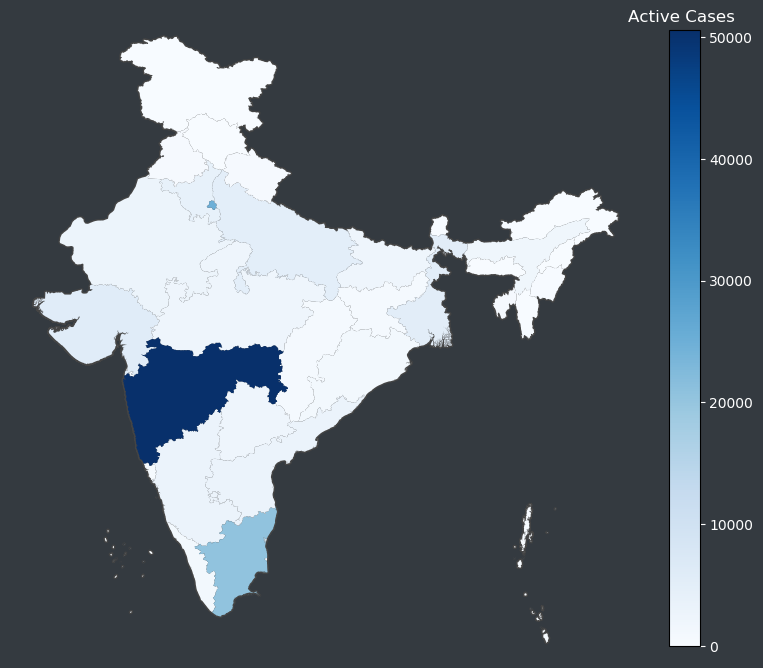
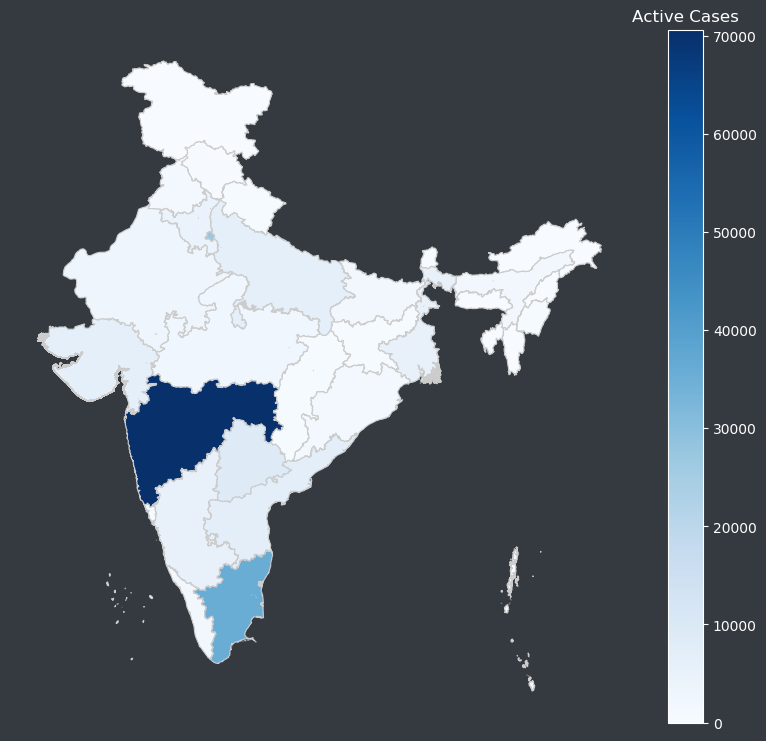
Finally

diff --git a/static/style.css b/static/style.css
@@ -64,7 +64,7 @@ background-color: #343a40;
 
 }
 table{
-  background-color: #343a40;
+  /* background-color: #343a40; */
   color: #c3c3c3;
 }
 tr{

diff --git a/app.py b/app.py
@@ -1,17 +1,11 @@
-
+import geopandas as gpd
 from flask import Flask, render_template
 import bs4 as bs
 import urllib.request
-from mpl_toolkits.basemap import Basemap
 import matplotlib.pyplot as plt
 import numpy as np
-from matplotlib.patches import Polygon
-from matplotlib.collections import PatchCollection
 from matplotlib.colors import Normalize
 import matplotlib.cm
-import pandas as pd
-import bs4 as bs
-import urllib.request
 import pandas as pd
 def scrape(url):
     list=[[],[],[],[],[]]
@@ -36,8 +30,6 @@ def scrape(url):
                 list[p].append(l[p])
     return list
 
-a=scrape('https://www.mohfw.gov.in/')
-
 def convert(x):
     if(x[-1]=='#'):
         return int(x[:-1])
@@ -47,152 +39,93 @@ def convert1(x):
         return x[:-1]
     return x
 
-data=map(convert1,a[1])
-a[1]=list(data)
-data1=map(convert,a[2])
+a=[]
+def run():
+    global a
+    a=scrape('https://www.mohfw.gov.in/')
 
-a[2]=list(data1)
-data=map(convert,a[3])
-a[3]=list(data)
-data=map(convert,a[4])
-a[4]=list(data)
-data=pd.DataFrame({'area':a[1],'count':a[2],'cured':a[3],'deaths':a[4]})
-data.loc[0,'area']='Andaman & Nicobar Island'
-data.loc[8,'area']='NCT of Delhi'
+    data=map(convert1,a[1])
+    a[1]=list(data)
+    data1=map(convert,a[2])
 
+    a[2]=list(data1)
+    data=map(convert,a[3])
+    a[3]=list(data)
+    data=map(convert,a[4])
+    a[4]=list(data)
+    data=pd.DataFrame({'area':a[1],'count':a[2],'cured':a[3],'deaths':a[4]})
+    data.loc[0,'area']='Andaman & Nicobar Island'
+    data.loc[8,'area']='NCT of Delhi'
 
+    fp = "Igismap\\Indian_States.shp"
+    map_df = gpd.read_file(fp)
+    merged = map_df.set_index('st_nm').join(data.set_index('area'))
+    merged.head()
+    merged.fillna(0,inplace=True)
 
+    fig, ax = plt.subplots(figsize=(10,9))
+    plt.style.use("dark_background")
 
-fig, ax = plt.subplots(figsize=(10,20))
-map=Basemap(
-    llcrnrlon=67,
-    llcrnrlat=6,
-    urcrnrlon=98,
-    urcrnrlat=38,
-    lat_0=27,
-    lon_0=76)
-i=map.readshapefile("Igismap\\Indian_States","states",color='#444444',linewidth=2)
+    ax.axis('off')
 
-df_poly = pd.DataFrame({
-        'shapes': [Polygon(np.array(shape), True) for shape in map.states],
-        'area': [area['st_nm'] for area in map.states_info]
-    })
-df_poly = df_poly.merge(data, on='area', how='left')
-cmap = plt.get_cmap('Greens')
-pc = PatchCollection(df_poly.shapes, zorder=2)
-norm = Normalize()
+    merged.plot(column='cured', cmap='Greens', linewidth=0.8, ax=ax, edgecolor='0.8')
+    mapper = matplotlib.cm.ScalarMappable(norm=plt.Normalize(vmin=0, vmax=data['cured'].max()), cmap='Greens')
 
-pc.set_facecolor(cmap(norm(df_poly['cured'].fillna(0).values)))
-ax.add_collection(pc)
-
-mapper = matplotlib.cm.ScalarMappable(norm=norm, cmap=cmap)
-
-mapper.set_array(df_poly['cured'])
-cbar=plt.colorbar(mapper, shrink=0.4)
-cbar.ax.set_title('Cured/Discharged/Migrated',color='white')
-# plt.legend('')
-# ax.set_xlabel('Country Population', size = 8)
-ax.axis('off')
-plt.rcParams['savefig.facecolor']='#343a40'
-plt.rcParams["ytick.color"] = 'white'
-plt.rcParams["xtick.color"] = 'white'
-plt.savefig('static\\map1.png',bbox_inches='tight')
+    mapper.set_array(data['cured'])
+    cbar=plt.colorbar(mapper)
+    cbar.ax.set_title('Cured/Discharged/Migrated',color='white')
+    plt.rcParams['savefig.facecolor']='#343a40'
+    plt.savefig('static\\map1.png',bbox_inches='tight')
 
 
 
 
-fig, ax = plt.subplots(figsize=(10,20))
-map=Basemap(
-    llcrnrlon=67,
-    llcrnrlat=6,
-    urcrnrlon=98,
-    urcrnrlat=38,
-    lat_0=27,
-    lon_0=76)
-i=map.readshapefile("Igismap\\Indian_States","states",color='#444444',linewidth=2)
+    fig, ax = plt.subplots(figsize=(10,9))
+    plt.style.use("dark_background")
 
-df_poly = pd.DataFrame({
-        'shapes': [Polygon(np.array(shape), True) for shape in map.states],
-        'area': [area['st_nm'] for area in map.states_info]
-    })
-df_poly = df_poly.merge(data, on='area', how='left')
-cmap = plt.get_cmap('YlOrRd')
-pc = PatchCollection(df_poly.shapes, zorder=2)
-norm = Normalize()
+    ax.axis('off')
 
-pc.set_facecolor(cmap(norm(df_poly['deaths'].fillna(0).values)))
-ax.add_collection(pc)
+    merged.plot(column='deaths', cmap='YlOrRd', linewidth=0.8, ax=ax, edgecolor='0.8')
+    mapper = matplotlib.cm.ScalarMappable(norm=plt.Normalize(vmin=0, vmax=data['deaths'].max()), cmap='YlOrRd')
 
-mapper = matplotlib.cm.ScalarMappable(norm=norm, cmap=cmap)
-
-mapper.set_array(df_poly['deaths'])
-cbar=plt.colorbar(mapper, shrink=0.4)
-plt.rcParams["ytick.color"] = 'white'
-plt.rcParams["xtick.color"] = 'white'
-cbar.ax.set_title('Deaths',color='white')
-# plt.legend('')
-# ax.set_xlabel('Country Population', size = 8)
-ax.axis('off')
-plt.rcParams['savefig.facecolor']='#343a40'
-plt.rcParams["ytick.color"] = 'white'
-plt.rcParams["xtick.color"] = 'white'
-plt.savefig('static\\map2.png',bbox_inches='tight')
-
-
-
-fig, ax = plt.subplots(figsize=(10,20))
-map=Basemap(
-    llcrnrlon=67,
-    llcrnrlat=6,
-    urcrnrlon=98,
-    urcrnrlat=38,
-    lat_0=27,
-    lon_0=76)
-i=map.readshapefile("Igismap\\Indian_States","states",color='#444444',linewidth=2)
-
-df_poly = pd.DataFrame({
-        'shapes': [Polygon(np.array(shape), True) for shape in map.states],
-        'area': [area['st_nm'] for area in map.states_info]
-    })
-df_poly = df_poly.merge(data, on='area', how='left')
-cmap = plt.get_cmap('Blues')
-pc = PatchCollection(df_poly.shapes, zorder=2)
-norm = Normalize()
-
-pc.set_facecolor(cmap(norm(df_poly['count'].fillna(0).values)))
-ax.add_collection(pc)
-
-mapper = matplotlib.cm.ScalarMappable(norm=norm, cmap=cmap)
-
-mapper.set_array(df_poly['count'])
-cbar=plt.colorbar(mapper, shrink=0.4)
-plt.rcParams["ytick.color"] = 'white'
-plt.rcParams["xtick.color"] = 'white'
-cbar.ax.set_title('Active Cases ',color='white')
-# plt.legend('')
-# ax.set_xlabel('Country Population', size = 8)
-ax.axis('off')
-plt.rcParams['savefig.facecolor']='#343a40'
-
-plt.savefig('static\\map.png',bbox_inches='tight')
+    mapper.set_array(data['deaths'])
+    cbar=plt.colorbar(mapper)
+    cbar.ax.set_title('Deaths',color='white')
+    plt.rcParams['savefig.facecolor']='#343a40'
+    plt.savefig('static\\map2.png',bbox_inches='tight')
 
 
 
 
+    fig, ax = plt.subplots(figsize=(10, 9))
+    plt.style.use("dark_background")
 
-active=sum(a[2])
-cured=sum(a[3])
-dead=sum(a[4])
+    ax.axis('off')
 
-a.append(active)
-a.append(cured)
-a.append(dead)
+    merged.plot(column='count', cmap='Blues', linewidth=0.8, ax=ax, edgecolor='0.8')
+    mapper = matplotlib.cm.ScalarMappable(norm=plt.Normalize(vmin=0, vmax=data['count'].max()), cmap='Blues')
+
+    mapper.set_array(data['count'])
+    cbar=plt.colorbar(mapper)
+    cbar.ax.set_title('Active Cases',color='white')
+    plt.rcParams['savefig.facecolor']='#343a40'
+    plt.savefig('static\\map.png',bbox_inches='tight')
+
+
+
+    active=sum(a[2])
+    cured=sum(a[3])
+    dead=sum(a[4])
+
+    a.append(active)
+    a.append(cured)
+    a.append(dead)
 
 app = Flask(__name__)
 
 @app.route('/')
 def data():
-
+    run()
     return render_template('index.html',data=a)
 
 if __name__ == '__main__':
